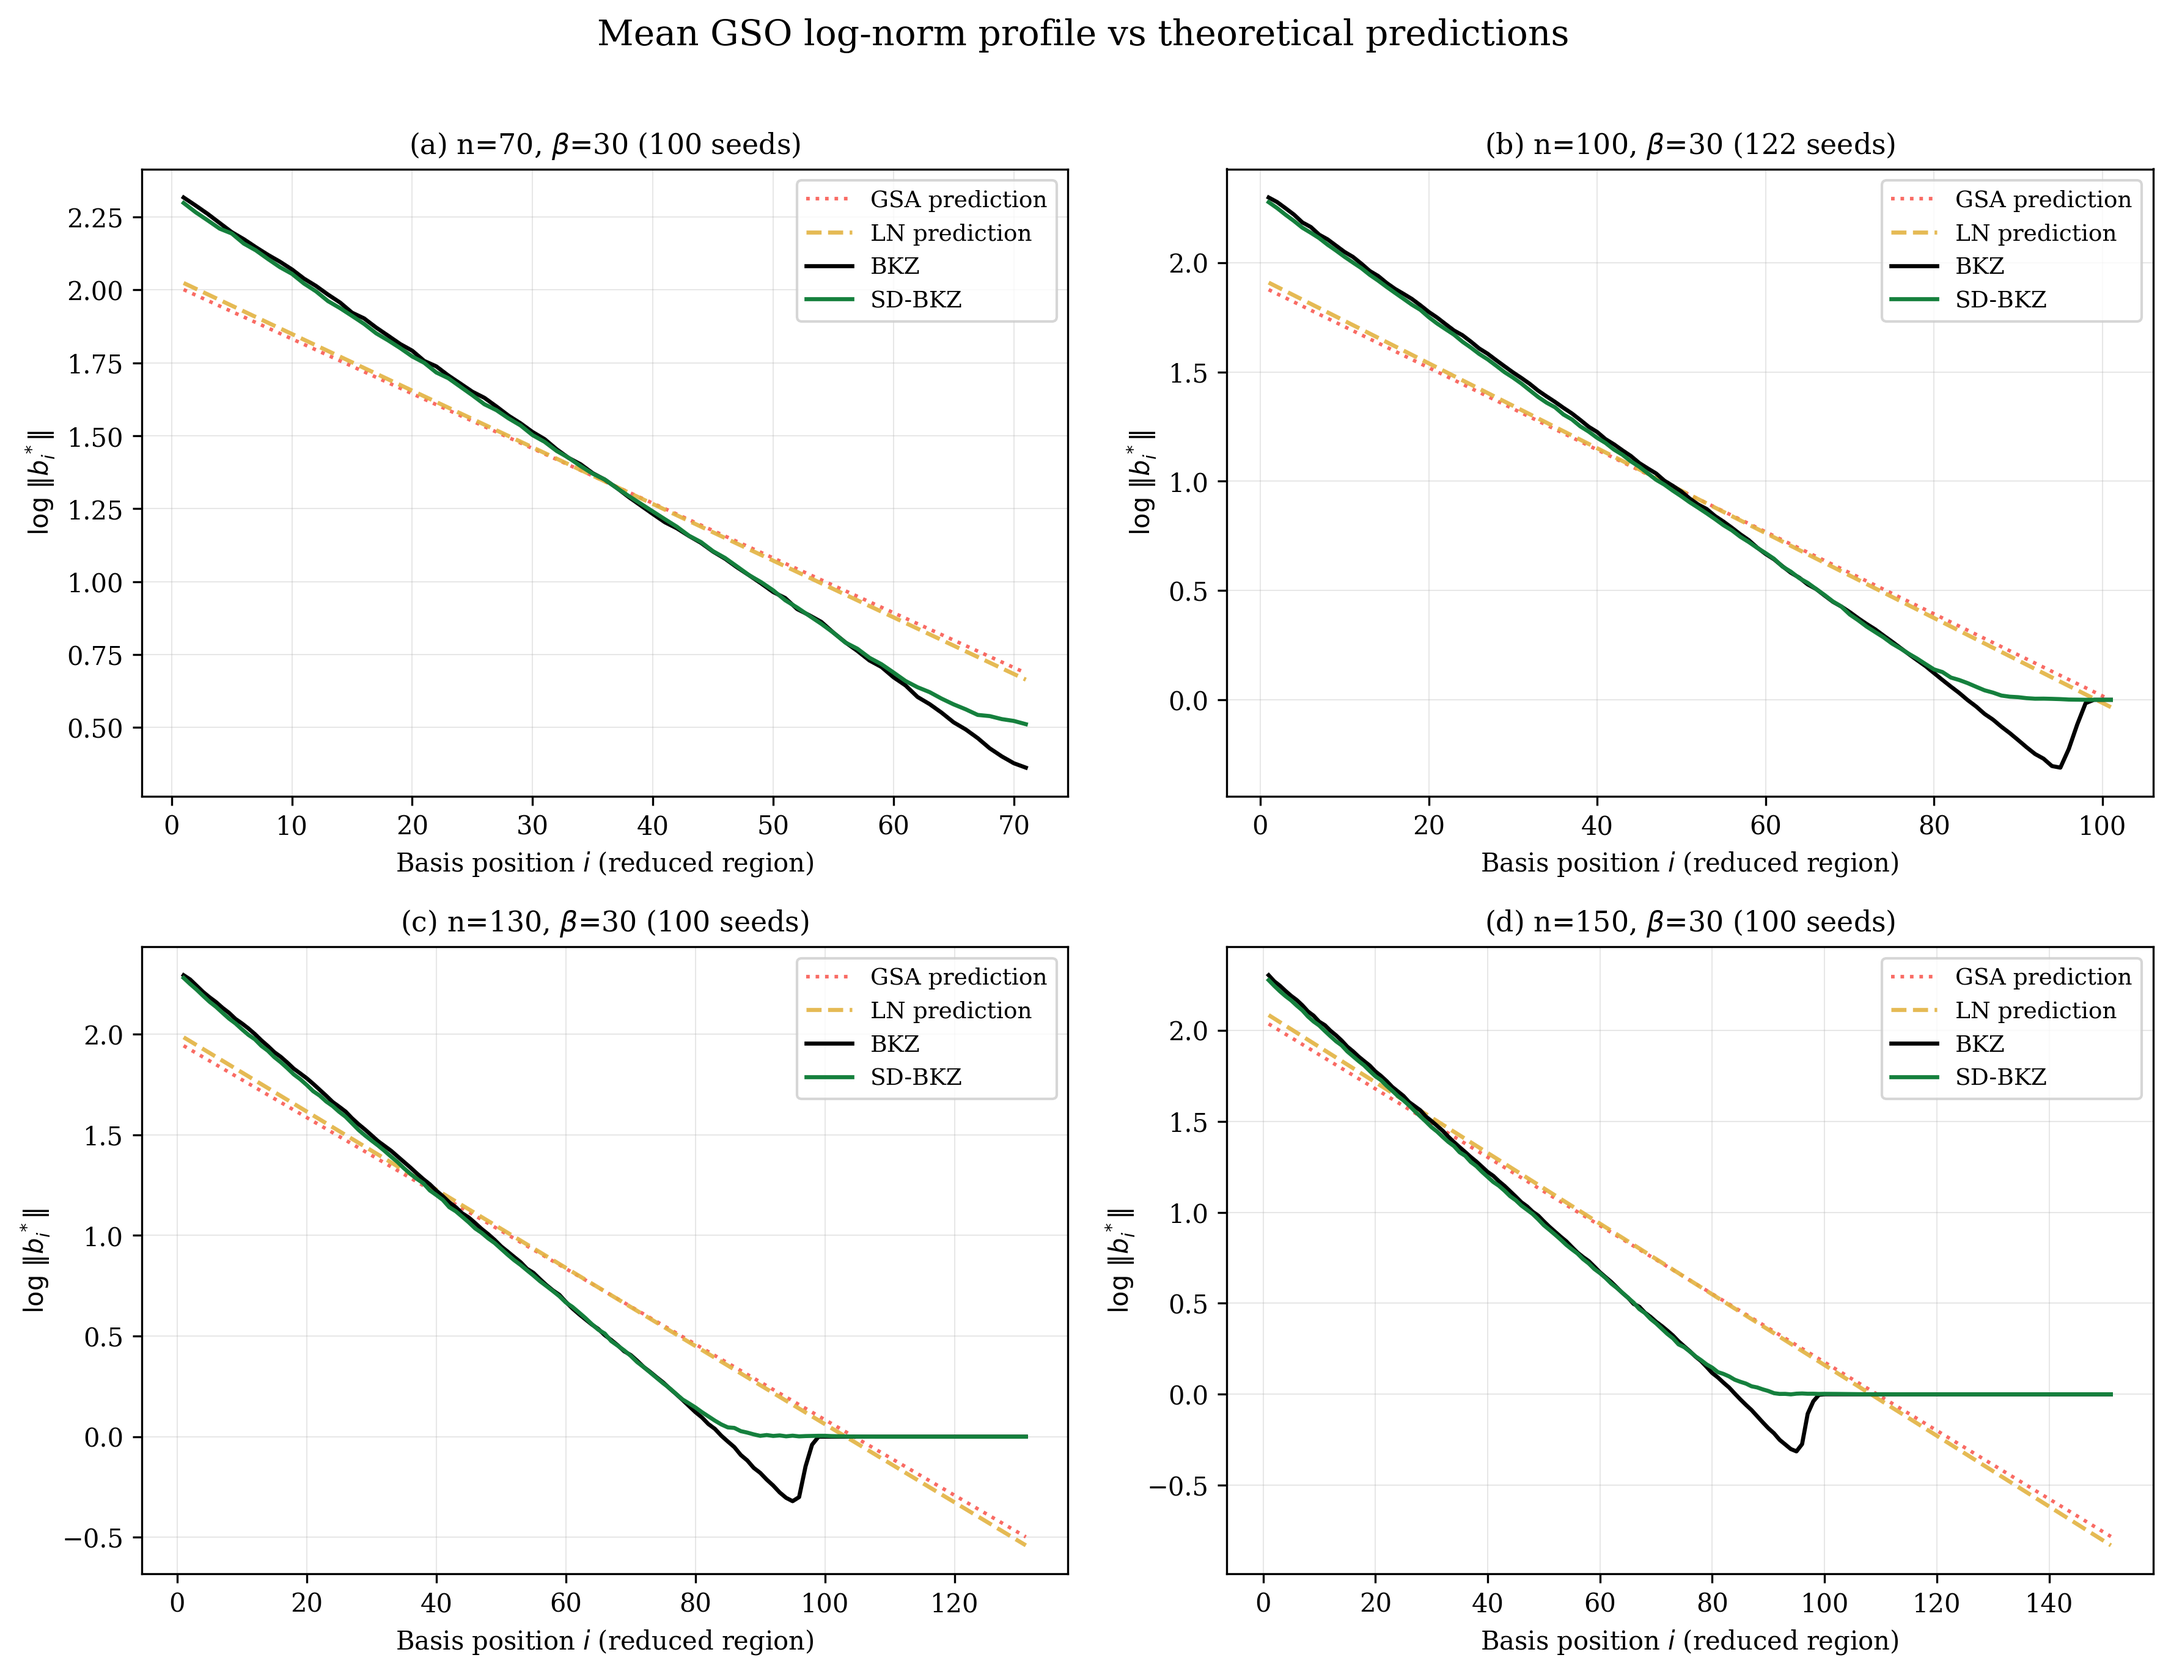
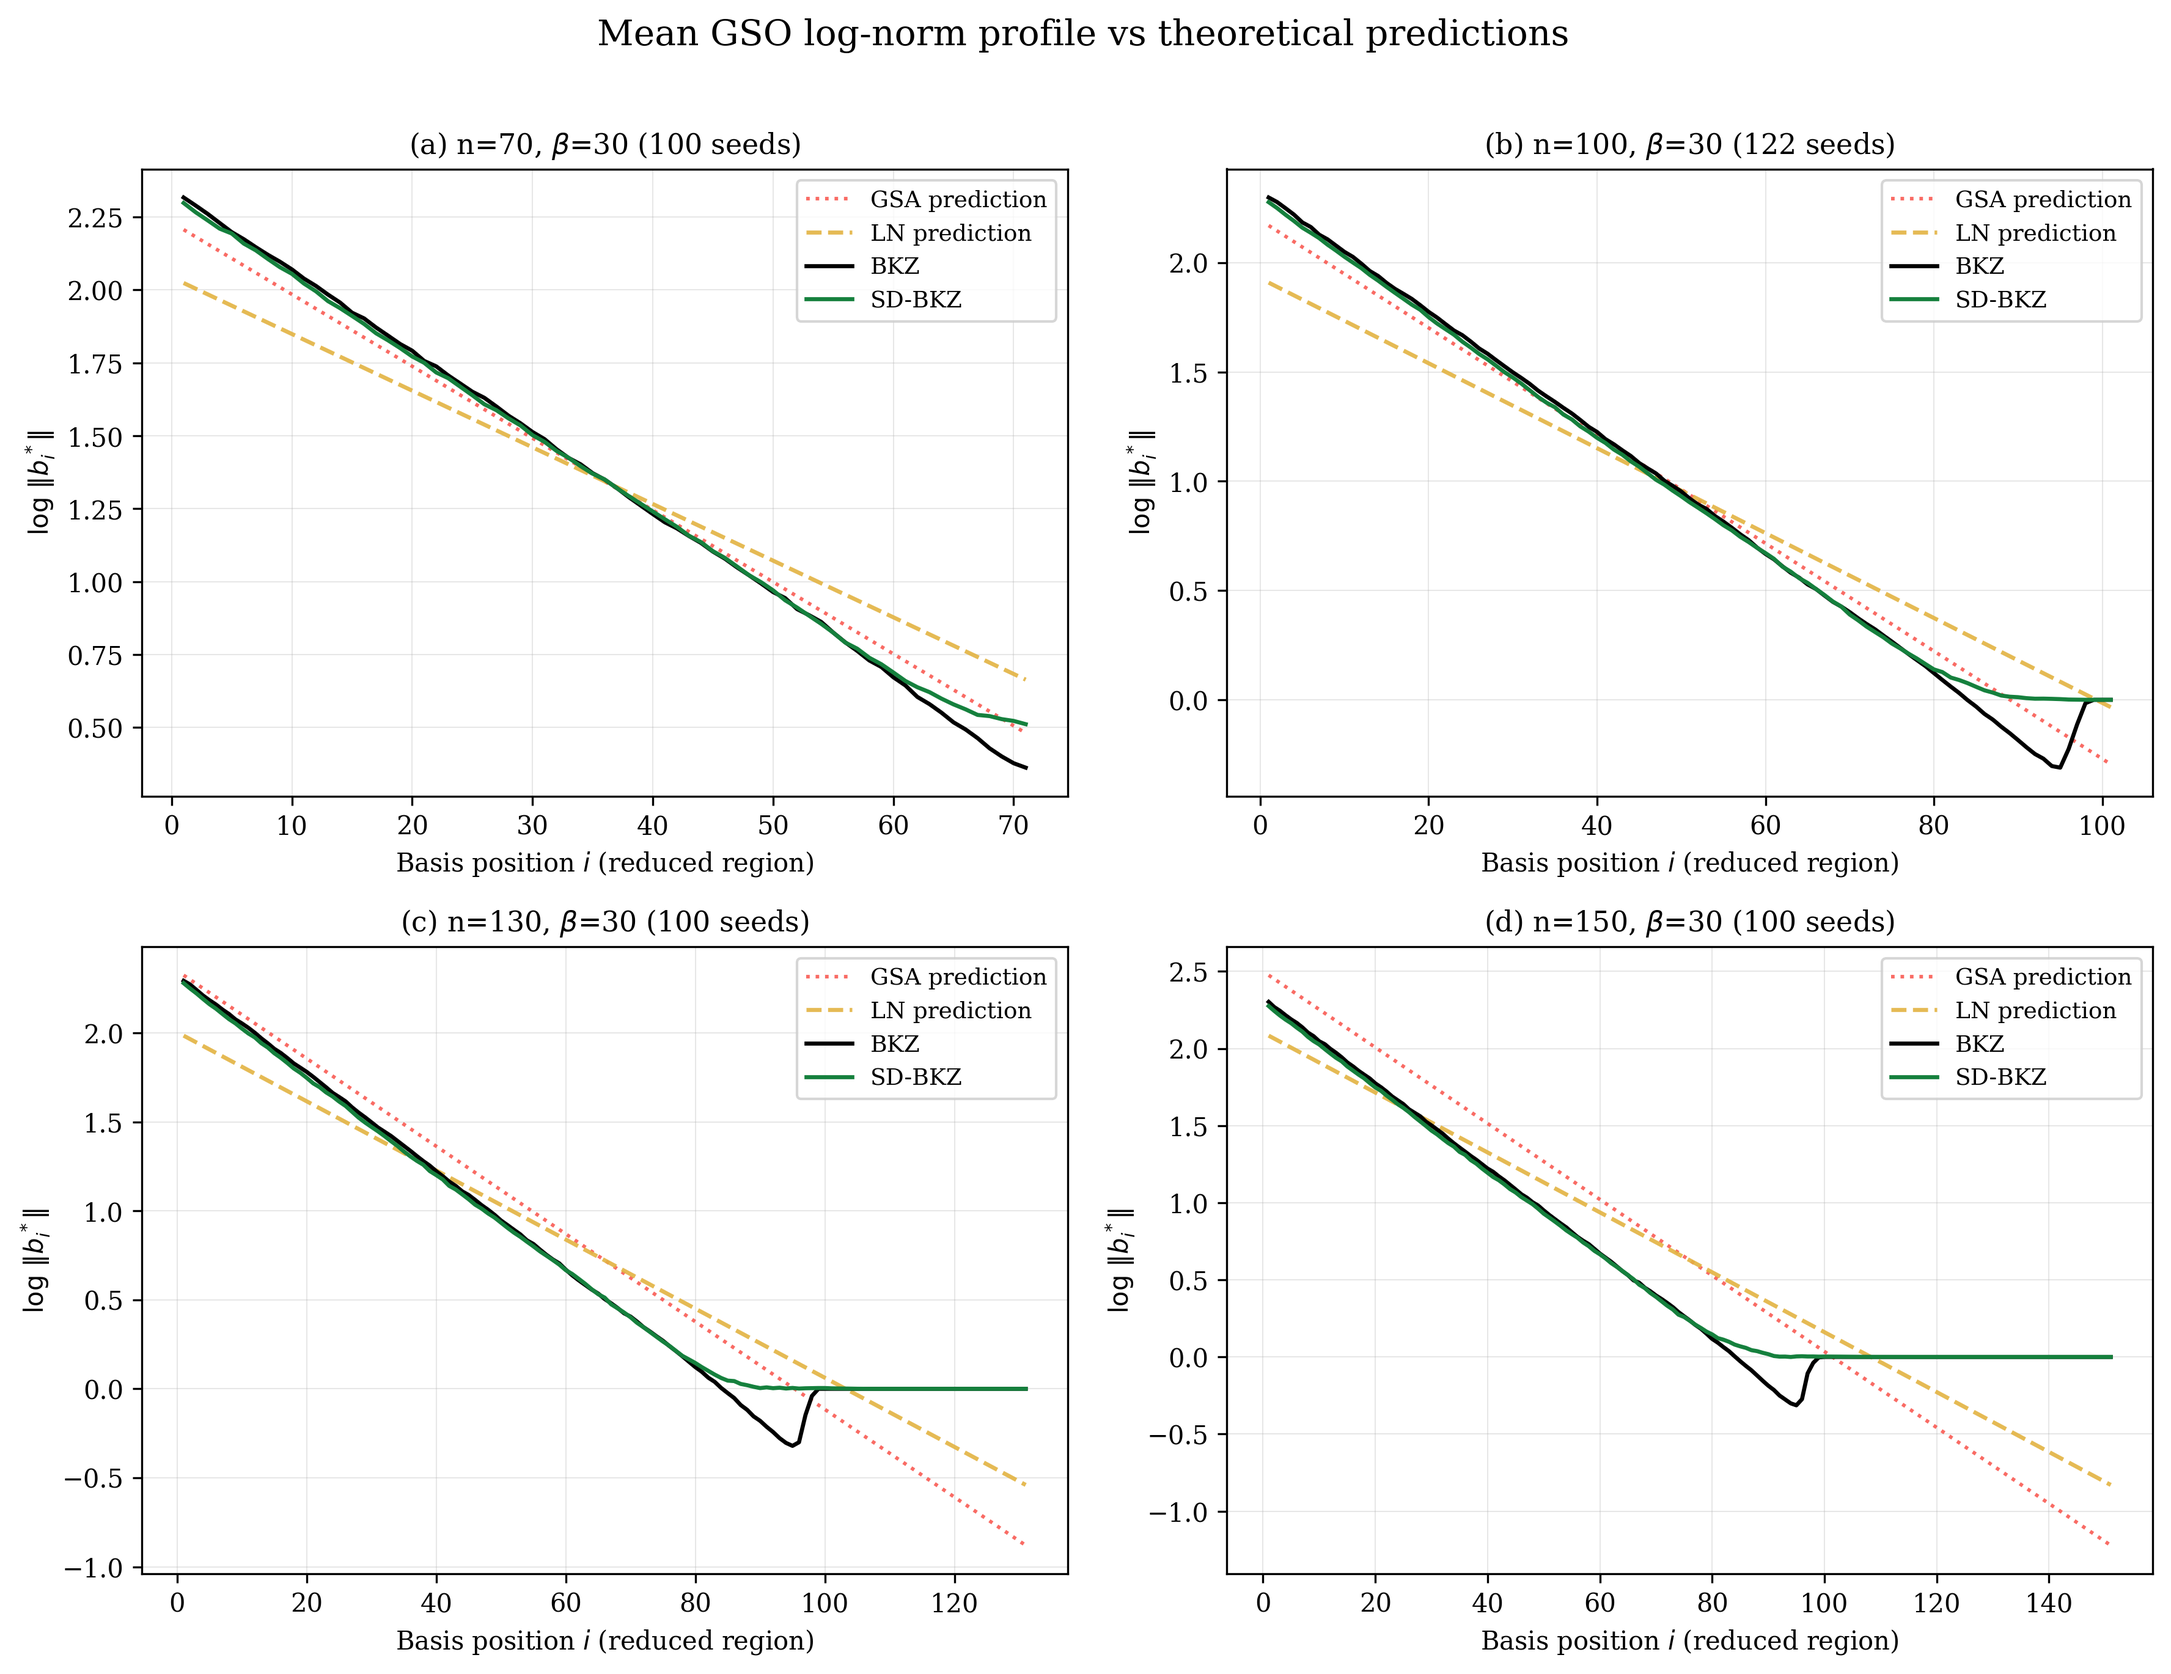
fix: Figure 8 GSA slope, onset one file per seed, loader test state

diff --git a/scripts/extract_dsd_onset.py b/scripts/extract_dsd_onset.py
@@ -135,7 +135,7 @@ def _seed_fires(seed: dict, variant: str, n: int) -> bool:
 def _cell_rate(tree: str, n: int, beta: int, q: int, variant: str,
                max_tours: int = DEFAULT_TOURS):
     """(fires, total) for one (tree, n, beta, q) cell at one tour budget, or
-    None if absent. Precisions pool; other budgets do not.
+    None if absent. One file per seed, the highest precision; other budgets do not pool.
 
     Each seed is scored by _seed_fires (recovery field first, _is_dsd fallback).
     Byte-identity note: pre-fix cells (no recovery field) score exactly as before
@@ -145,7 +145,13 @@ def _cell_rate(tree: str, n: int, beta: int, q: int, variant: str,
     the committed trend table is unaffected."""
     pat = os.path.join(BASE, "results", "seeds", tree, f"q{q}",
                        f"p*_mt{max_tours}", f"n{n:03d}_beta{beta:02d}", "seed*.json")
-    files = sorted(glob.glob(pat))
+    best = {}  # seed file name -> (precision, path): a higher-precision rerun replaces the lower
+    for f in sorted(glob.glob(pat)):
+        prec = int(f.split(os.sep)[-3][1:].split("_")[0])
+        name = os.path.basename(f)
+        if name not in best or prec > best[name][0]:
+            best[name] = (prec, f)
+    files = [f for _, f in best.values()]
     if not files:
         return None
     fires = poisoned_fallback = 0

diff --git a/analysis/plots/ntru_profiles.py b/analysis/plots/ntru_profiles.py
@@ -57,13 +57,14 @@ def fig_ntru_profiles(output_dir=".", fname="profiles.png"):
     fig, axes = plt.subplots(1, 3, figsize=(12, 4.2), sharey=True)
     for ax, q, lbl, c in zip(axes, QS, LABELS, cells, strict=True):
         d = c[seed]
-        ax.plot(d["initial_gs_lognorms"], color="#94a3b8", lw=1.2, ls=":",
+        pos = range(1, 2 * N + 1)  # 1-based GS position
+        ax.plot(pos, d["initial_gs_lognorms"], color="#94a3b8", lw=1.2, ls=":",
                 label="initial profile", zorder=2)
-        ax.plot(d["gs_lognorms_bkz"], color=bkz_c, lw=1.6, label="BKZ", zorder=3)
-        ax.plot(d["gs_lognorms_sdbkz"], color=sd_c, lw=1.6, label="SD-BKZ", zorder=4)
+        ax.plot(pos, d["gs_lognorms_bkz"], color=bkz_c, lw=1.6, label="BKZ", zorder=3)
+        ax.plot(pos, d["gs_lognorms_sdbkz"], color=sd_c, lw=1.6, label="SD-BKZ", zorder=4)
         ax.axhline(secret, color=COLORS["zero"], lw=1.0, ls="--", alpha=0.7,
                    zorder=1, label=r"mean secret $\log\sqrt{4n/3}$")
-        ax.axvline(N, color="#475569", lw=0.8, ls="--", alpha=0.6, zorder=1)
+        ax.axvline(N + 0.5, color="#475569", lw=0.8, ls="--", alpha=0.6, zorder=1)
         ax.set_title(f"$q={q}$: {lbl}")
         ax.set_xlabel("GS position $i$")
         ax.grid(alpha=0.15, zorder=0)

diff --git a/tests/test_extract_dsd_onset.py b/tests/test_extract_dsd_onset.py
@@ -107,14 +107,14 @@ def test_cell_rate_reads_one_tour_budget(base):
     assert ed._q_grid("ntru", 167, 40, max_tours=200) == []
 
 
-def test_cell_rate_pools_precisions_at_one_budget(base):
+def test_cell_rate_takes_highest_precision_per_seed(base):
     # n=89 q=97 shape: p250_mt50 + p500_mt50 reruns with the same seed ids.
-    # Both precisions count (5 + 4 = 9 seeds); q appears once on the grid.
+    # Seeds 1-4 come from p500, seed 5 from p250; q appears once on the grid.
     for prec, seeds in (("p250", [_seed(recovered=True)] * 3 + [_seed(recovered=False)] * 2),
                         ("p500", [_seed(recovered=True)] * 2 + [_seed(recovered=False)] * 2)):
         d = base / "results" / "seeds" / "ntru" / "q97" / f"{prec}_mt50" / "n089_beta20"
         d.mkdir(parents=True)
         for i, s in enumerate(seeds):
             (d / f"seed{i + 1:04d}.json").write_text(json.dumps(s))
-    assert ed._cell_rate("ntru", 89, 20, 97, "sdbkz") == (5, 9)
+    assert ed._cell_rate("ntru", 89, 20, 97, "sdbkz") == (2, 5)
     assert ed._q_grid("ntru", 89, 20) == [97]

diff --git a/analysis/plots/gso_profiles.py b/analysis/plots/gso_profiles.py
@@ -1,4 +1,4 @@
-"""Figure 10: GSO log-norm staircase with GSA and Li-Nguyen predictions.
+"""Paper 1 Figure 8: GSO log-norm staircase with GSA and Li-Nguyen predictions.
 
 The classic lattice paper figure: log||b*_i|| vs basis position i,
 overlaid with theoretical GSA and LN reference lines computed from
@@ -88,7 +88,8 @@ def fig_gso_profiles(groups, output_dir=".", show_groups=None):
         # profile's log_vol so the theoretical lines have the same area.
         log_vol = float(np.sum(bkz_active))
         log_factor = math.log(beta / (2 * math.pi * math.e))
-        log_delta_gsa = log_factor / (2 * beta)
+        # Standard GSA root-Hermite slope: delta^(2(beta-1)) = beta/(2 pi e) * (pi beta)^(1/beta)
+        log_delta_gsa = (log_factor + math.log(math.pi * beta) / beta) / (2 * (beta - 1))
         log_delta_ln = log_factor / (2 * (beta - 1))
 
         gsa_line = np.array([

diff --git a/analysis/plots/basis_profiles.py b/analysis/plots/basis_profiles.py
@@ -12,13 +12,9 @@ from .._style import COLORS
 
 
 def fig_basis_profiles(groups, output_dir=".", show_groups=None):
-    """Plot the actual Rankin profile of the reduced basis vs the Li-Nguyen
-    theoretical fixed point.
+    """Plot the mean Rankin profile of the reduced basis, BKZ vs SD-BKZ.
 
-    This is the canonical lattice paper figure: shows the GSO log-norm
-    profile shape directly. Each panel = one (n, β) group, with three
-    curves: BKZ result, SD-BKZ result, and the theoretical fixed point.
-    Profiles are averaged across all seeds in the group.
+    Each panel = one (n, β) group, profiles averaged across its seeds.
 
     Args:
         groups: Output of load_all_seeds().

diff --git a/tests/test_analysis_data_loader.py b/tests/test_analysis_data_loader.py
@@ -77,10 +77,12 @@ def _entry(**kwargs):
 
 @pytest.fixture
 def fresh_cache():
-    """Ensure _MANIFEST_CACHE starts empty every test."""
+    """Empty _MANIFEST_CACHE around every test; restore the paths tests repoint."""
+    old_default, old_file = data.DEFAULT_MANIFEST_PATH, data.__file__
     data._MANIFEST_CACHE.clear()
     yield
     data._MANIFEST_CACHE.clear()
+    data.DEFAULT_MANIFEST_PATH, data.__file__ = old_default, old_file
 
 
 @pytest.fixture
